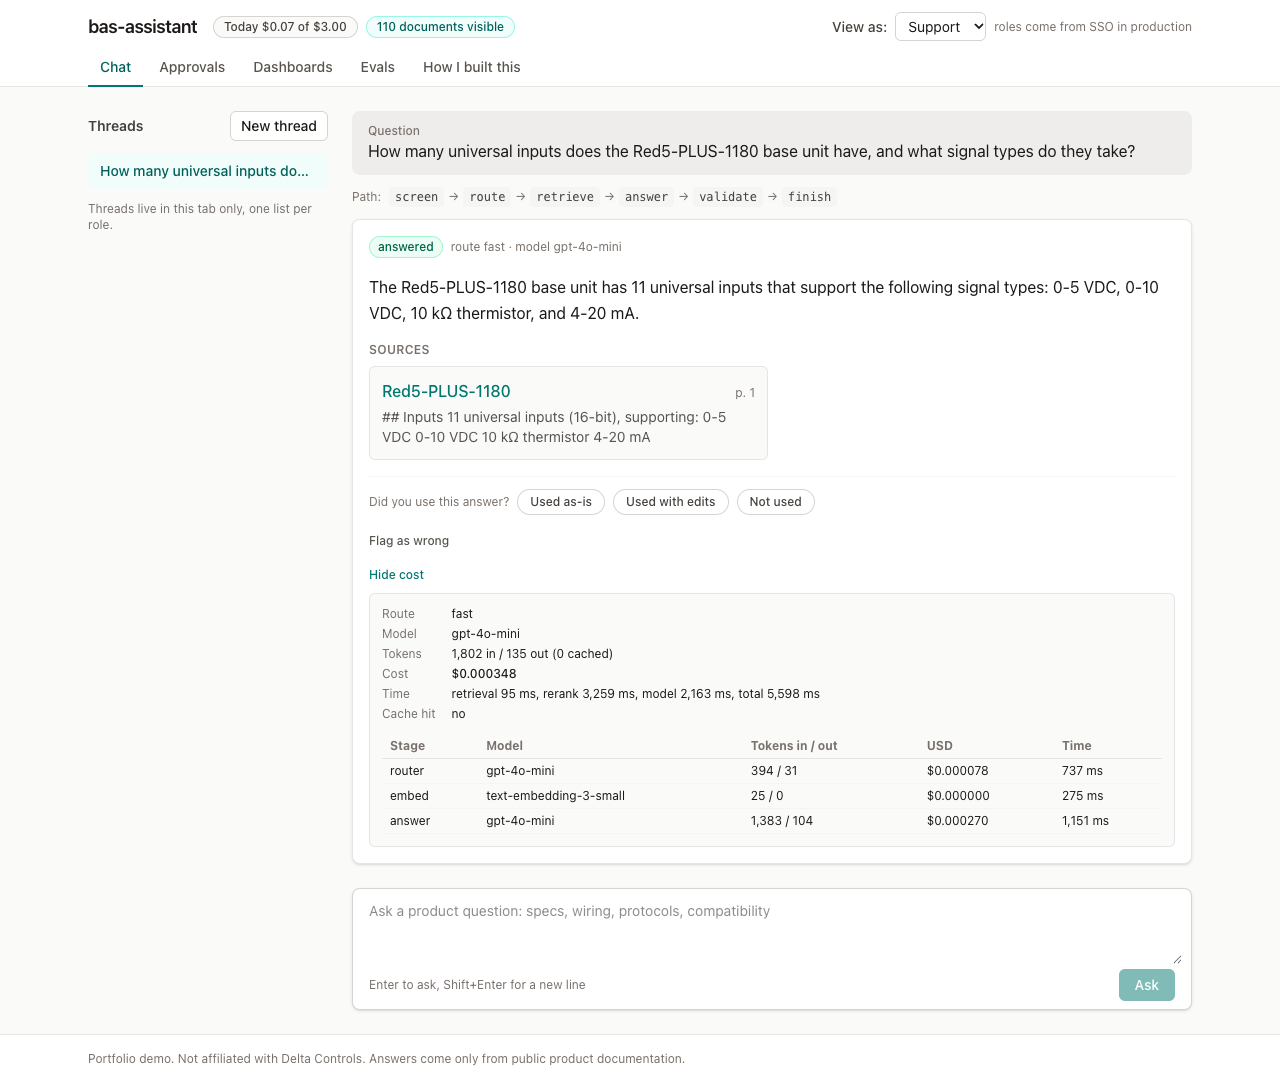
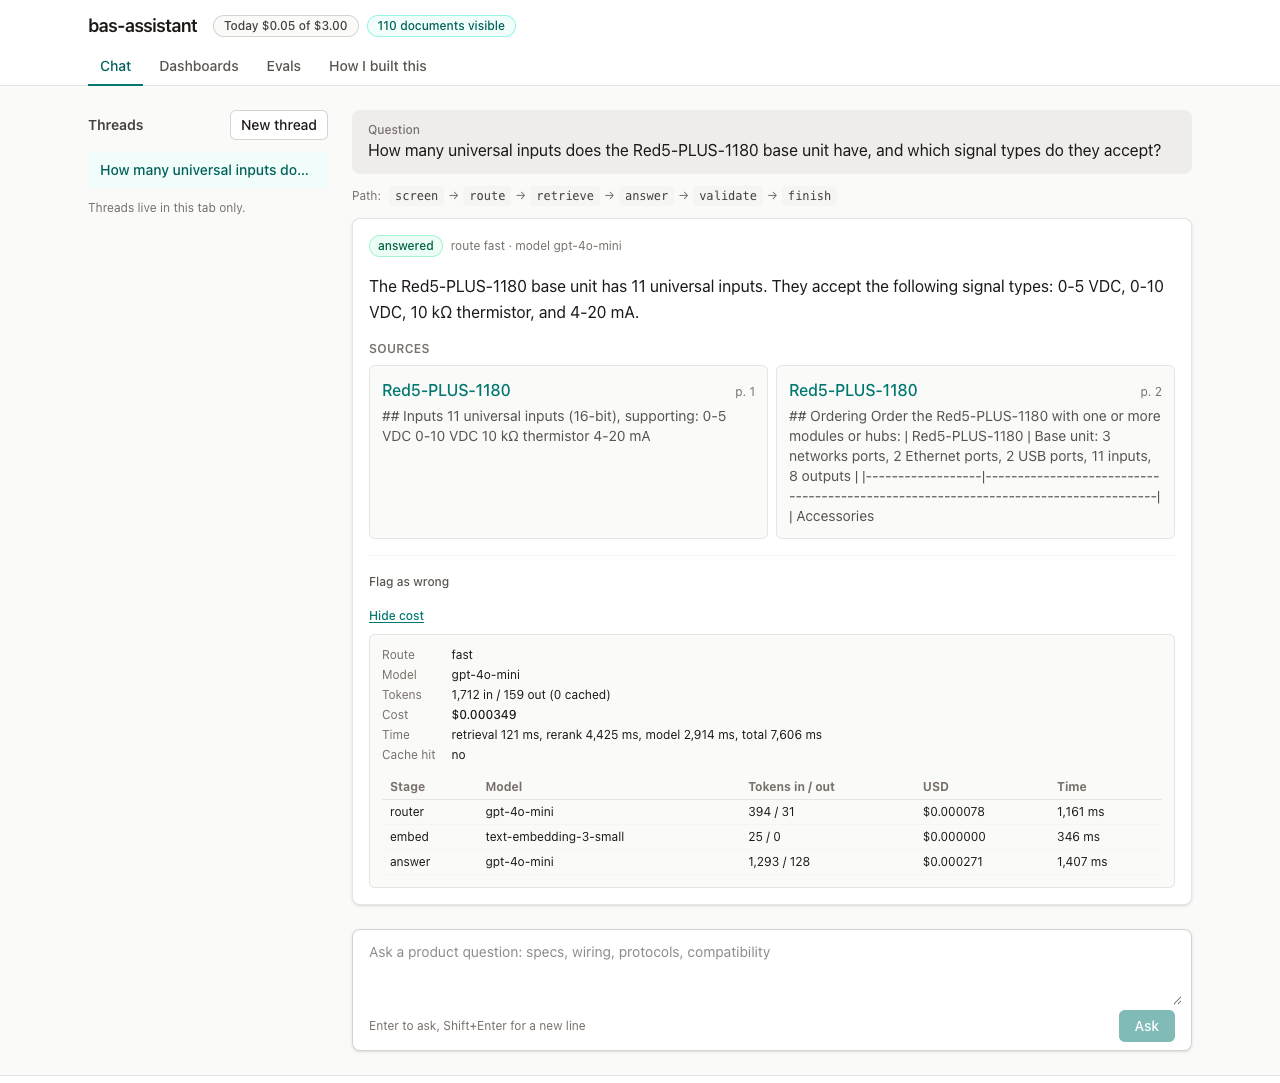
docs: readme cleanup
One disclaimer paragraph, starting "Built as a portfolio project." Both chat screenshots
recaptured from https://bas.jasonkhaings.com as it is now (no role switcher, no Approvals
tab, no feedback buttons), with captions that describe the new picture.

diff --git a/web/src/pages/howIBuiltThis/AQuestionArrives.tsx b/web/src/pages/howIBuiltThis/AQuestionArrives.tsx
@@ -75,13 +75,10 @@ function Orchestration() {
                 the graph pauses and saves its state in Postgres until an admin approves or denies
                 it.
             </p>
-            {/* TODO(post-weekend): recapture this and docs/img/live-chat.png without the role
-                switcher, Approvals tab and feedback buttons (HANDOFF_ui-simple.md and
-                HANDOFF_ui-no-feedback.md, Known gaps). */}
             <Figure
                 src="/img/chat-answer.png"
-                alt="A live answer: the node path, the answer, the Red5-PLUS-1180 citation card, feedback buttons and the cost receipt"
-                caption="A live answer, its source, and its receipt: three model calls, $0.00035."
+                alt="A live answer: the node path, the answer, two Red5-PLUS-1180 citation cards (pages 1 and 2) and the cost receipt"
+                caption="A live answer, its two sources, and its receipt: three model calls, $0.00035."
             />
             <Tools
                 names="LangGraph with its Postgres checkpointer, FastAPI streaming each finished step to the page"

diff --git a/README.md b/README.md
@@ -8,12 +8,11 @@ product pages), cites the document and page, abstains when the documents don't c
 propose an internal ticket that a human approves. Everything is permission-filtered, cost-metered,
 evaluated, and audited.
 
-Built as a portfolio project. Not affiliated with Delta Controls. All copyrights or whatever rights belong
-to Delta Controls, please don't sue me LOL.
-The corpus is Delta Controls' public catalog sheets and product pages; this project is not affiliated
-with Delta Controls, and any content will be removed on request.
+Built as a portfolio project. The corpus is Delta Controls' public catalog sheets and product
+pages; this project is not affiliated with Delta Controls, and any content will be removed on
+request.
 
-![A live answer: the node path, the answer, its citation card, feedback buttons and the cost receipt](docs/img/live-chat.png)
+![A live answer: the node path, the answer, two Red5-PLUS-1180 citation cards (pages 1 and 2) and the cost receipt with three model calls](docs/img/live-chat.png)
 
 The web app has a "How I built this" page that walks through the design in plain words. The design
 of record is [docs/ARCHITECTURE.md](docs/ARCHITECTURE.md).
